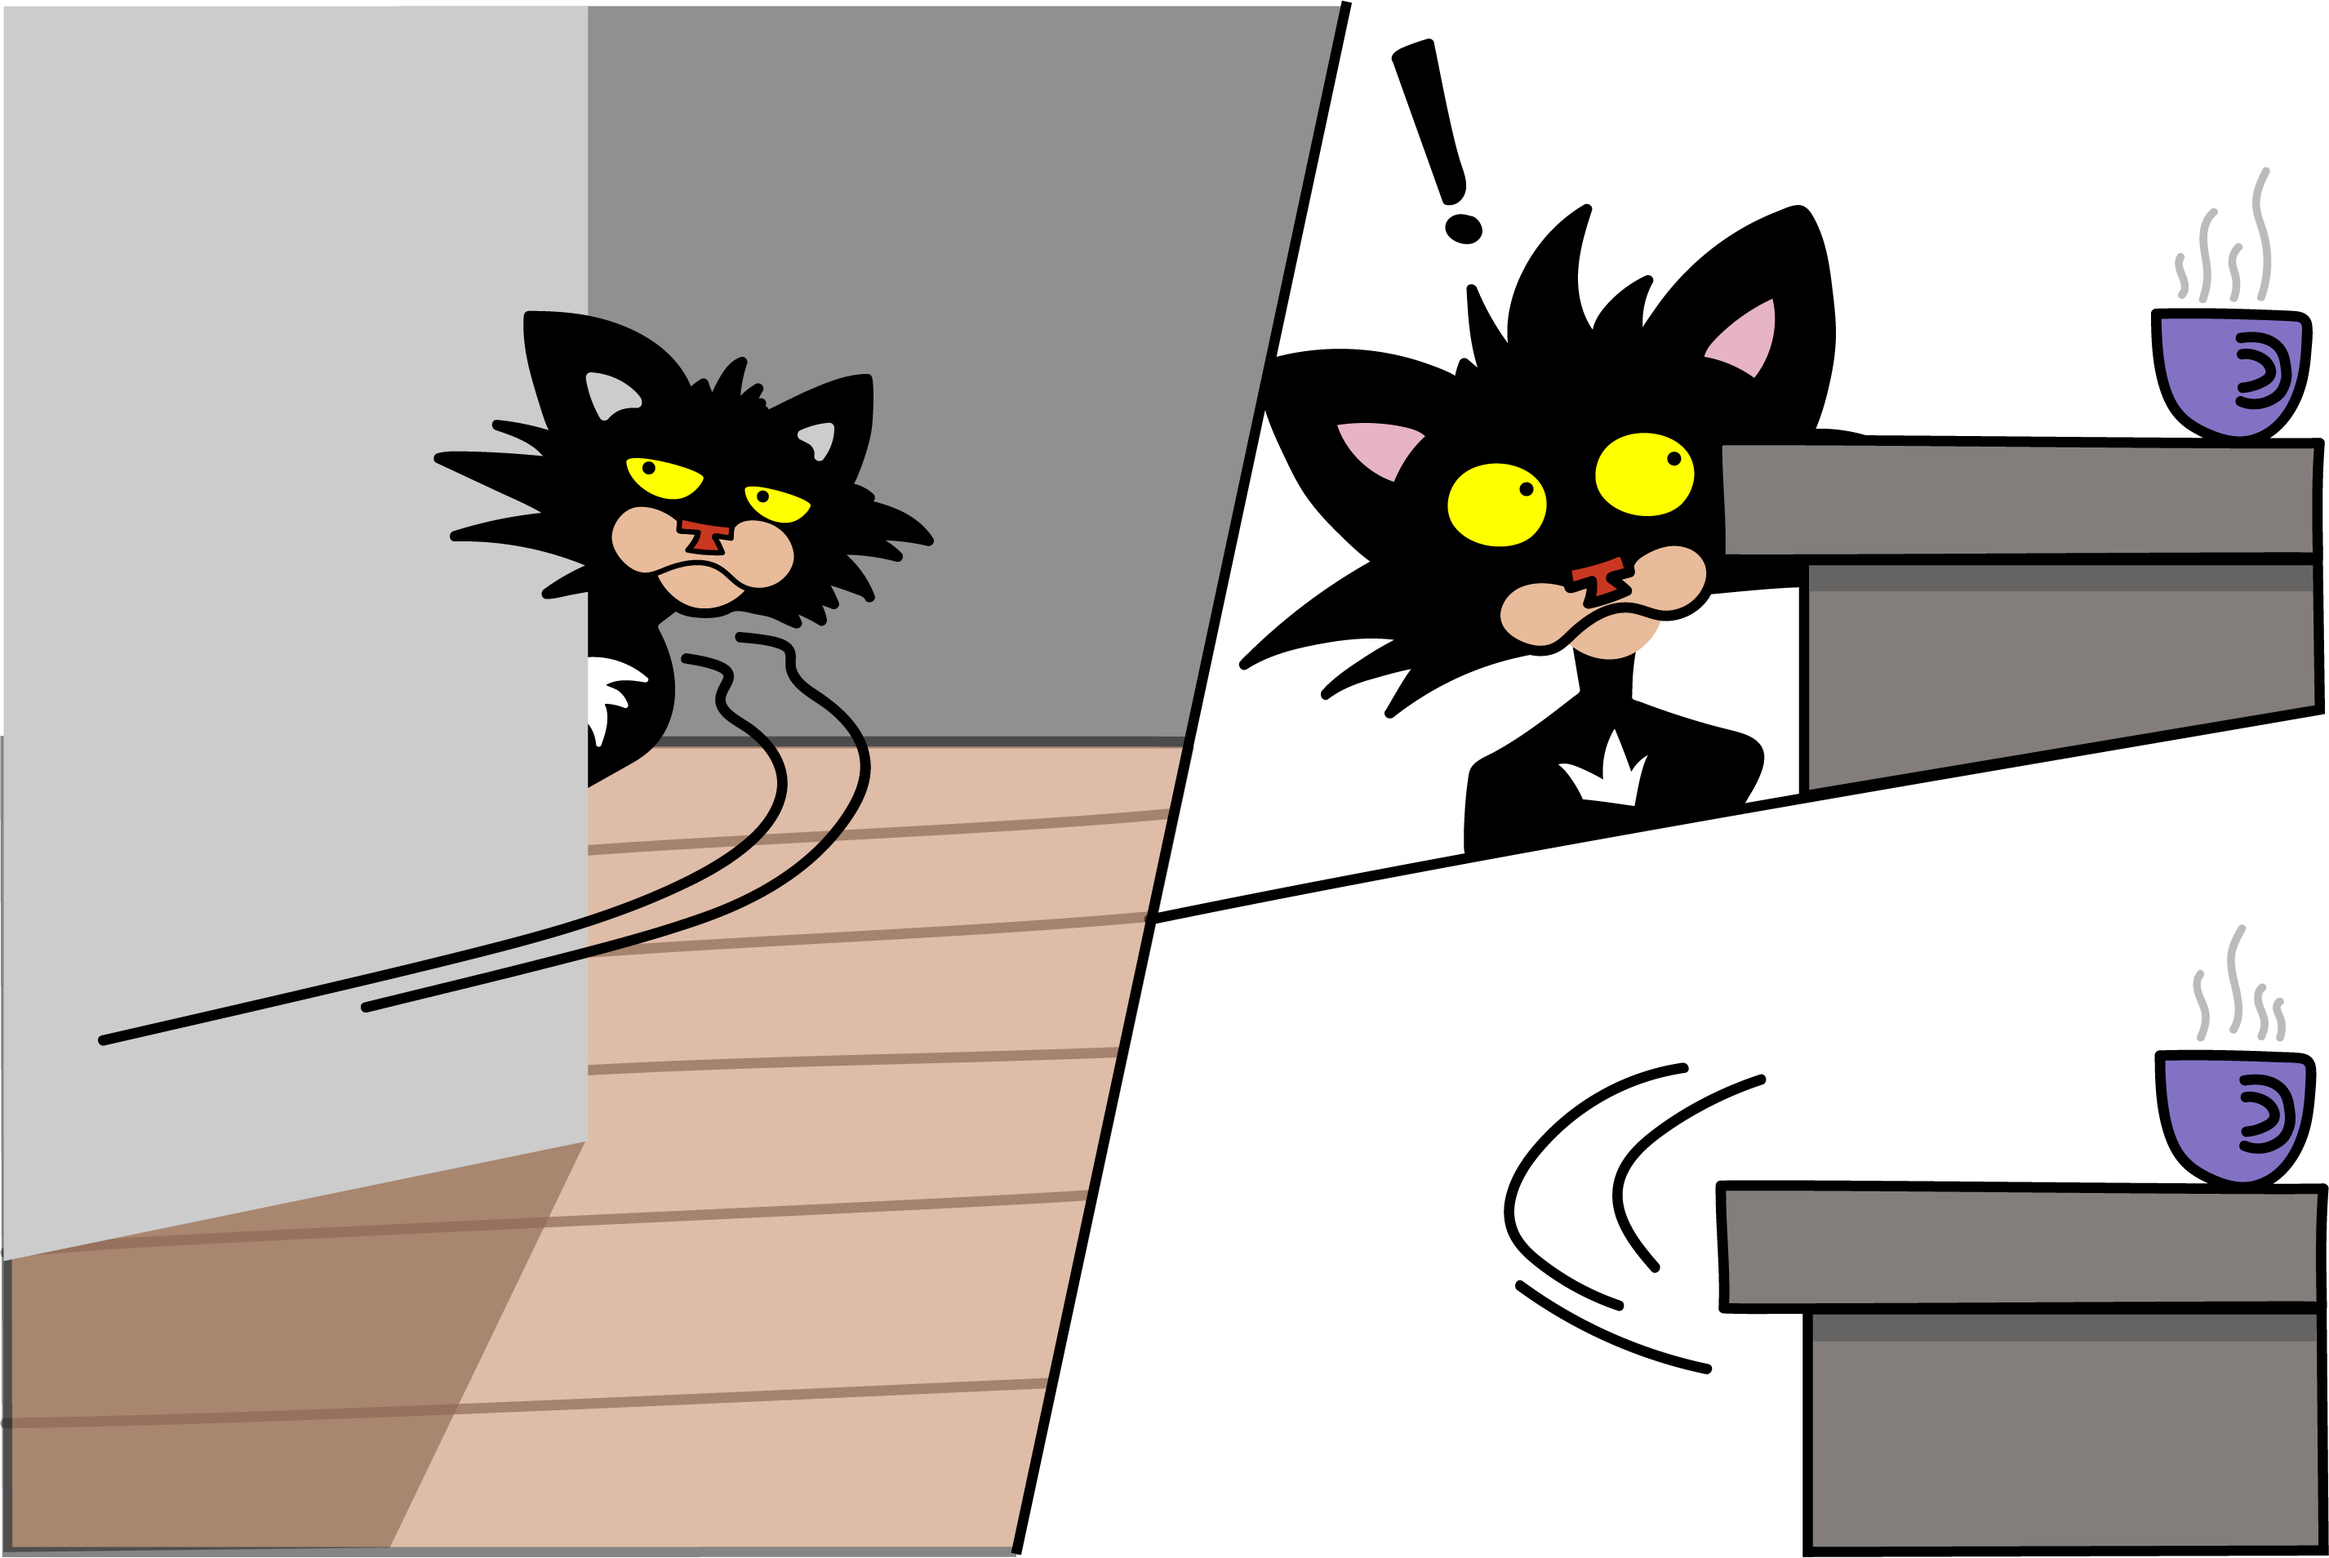
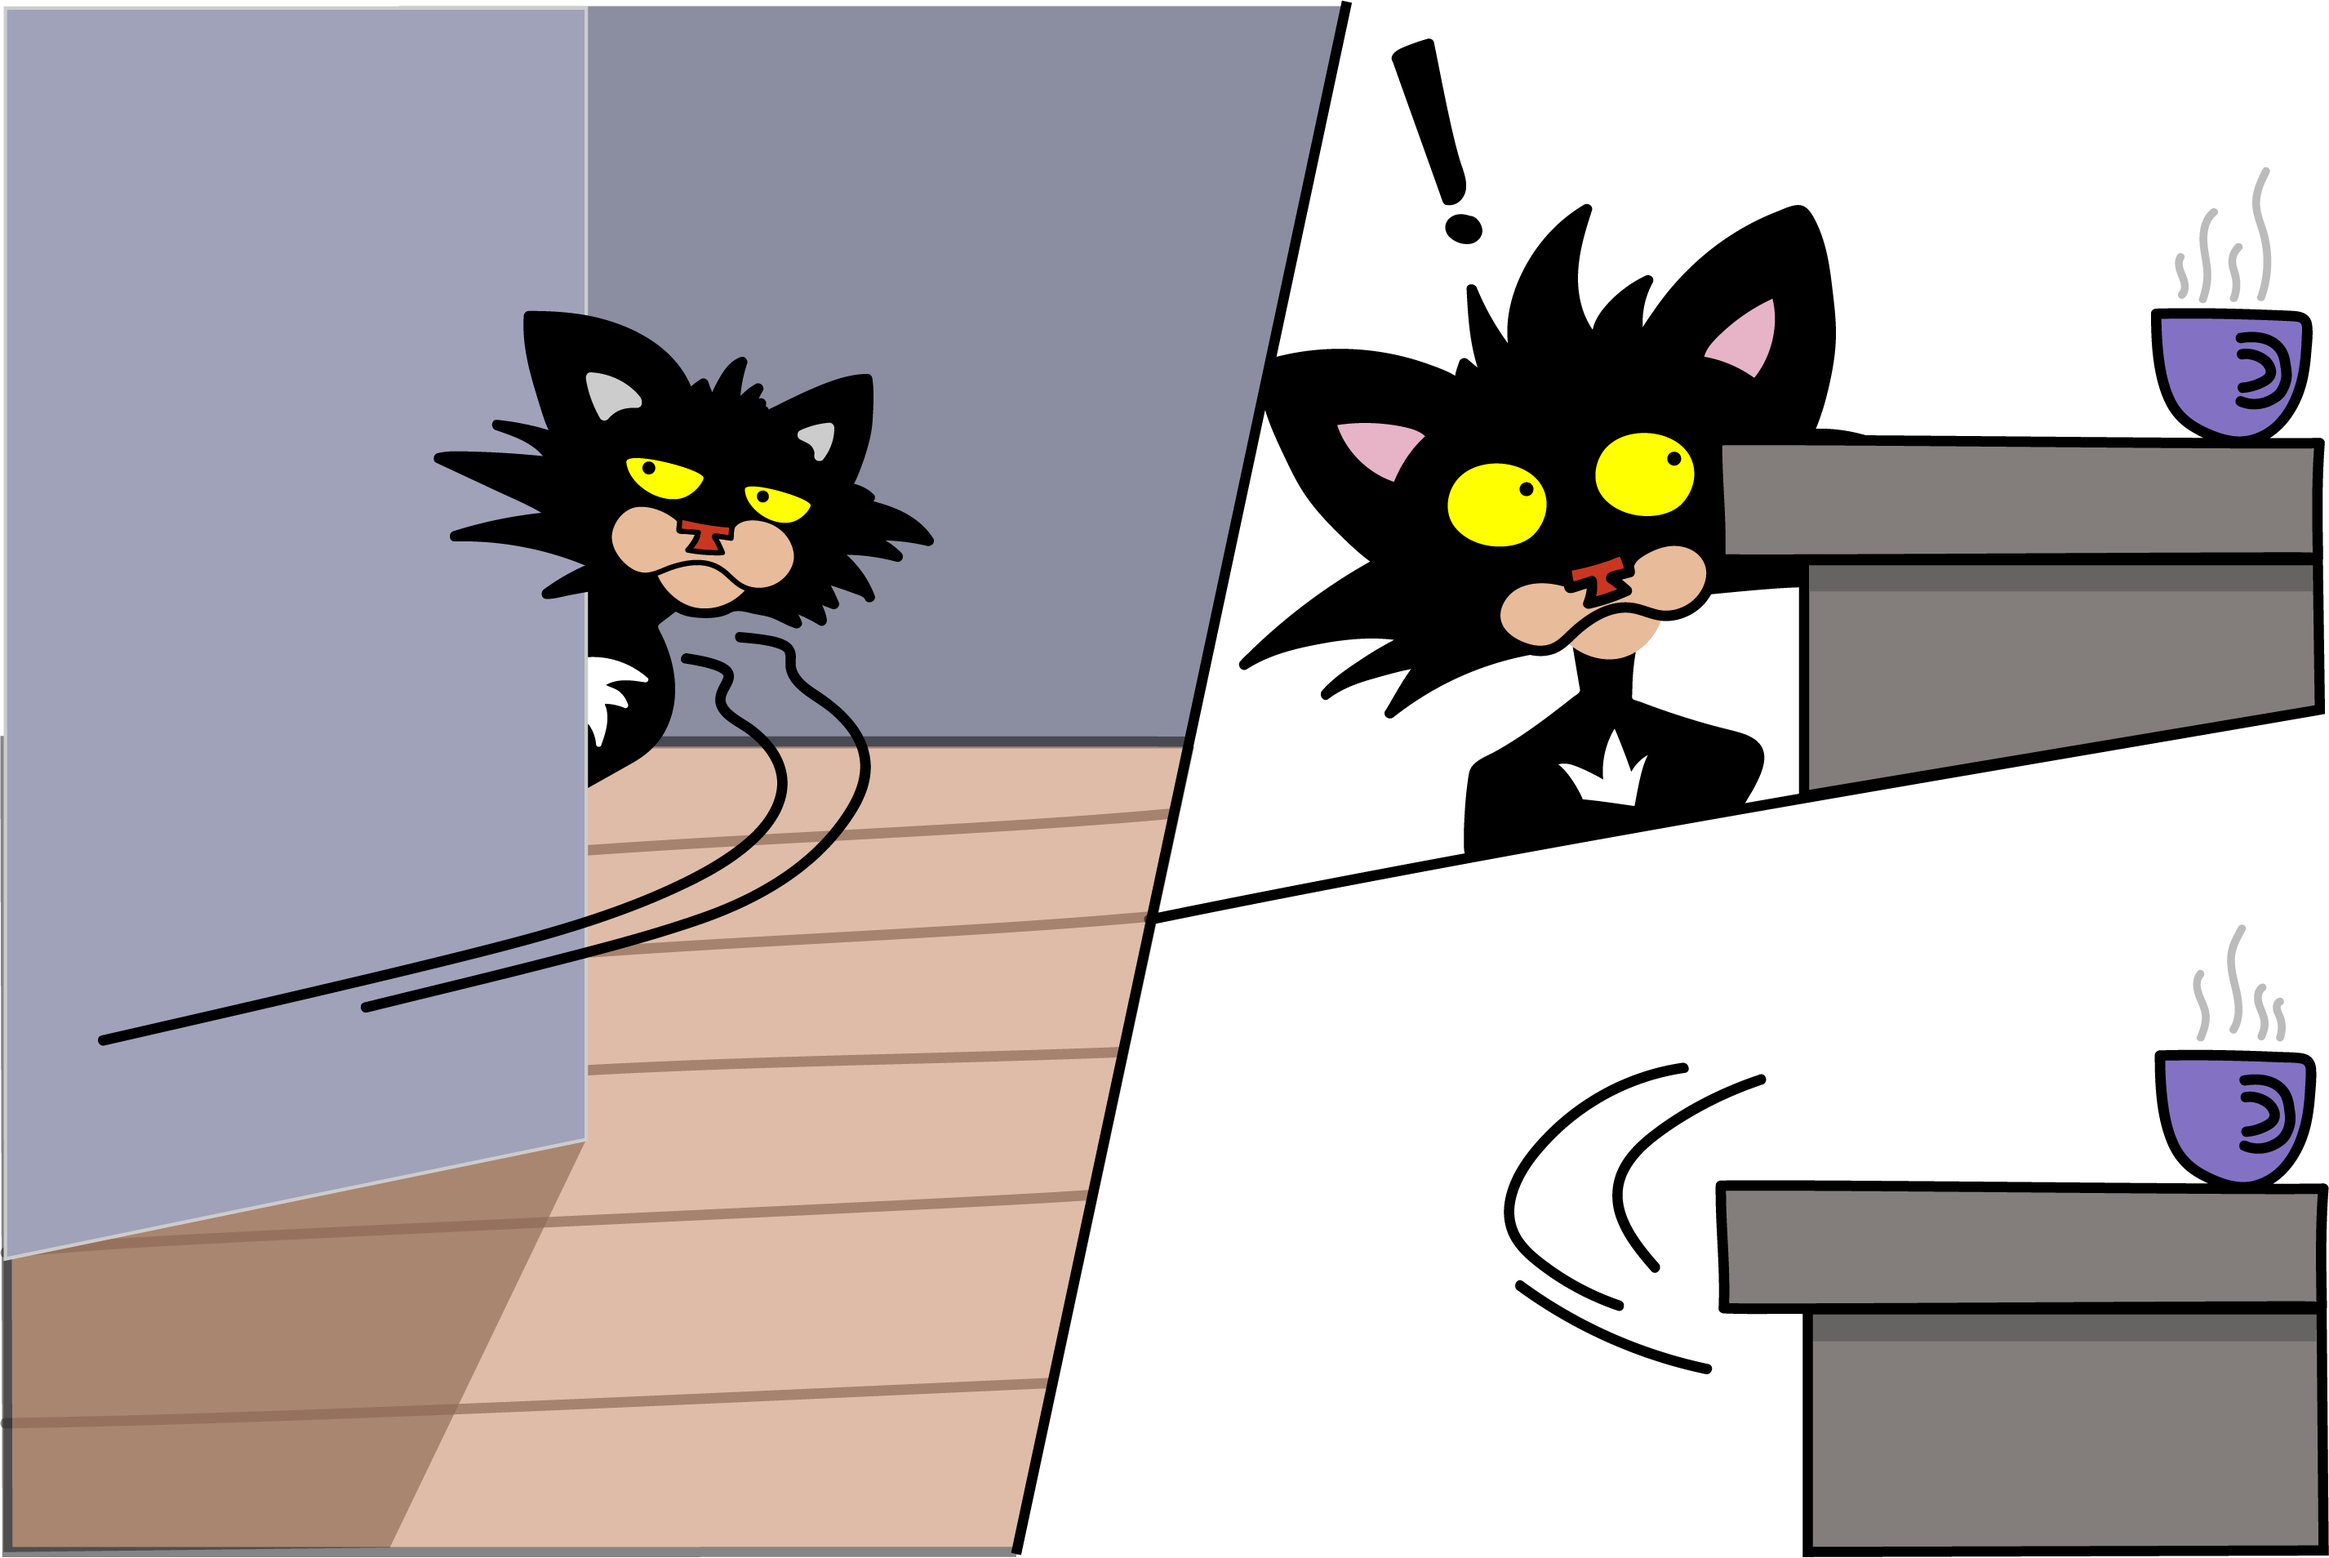
frontend edit

Changed region(s): [[0.0, 0.0, 0.2496, 0.804]]

diff --git a/game.css b/game.css
@@ -167,7 +167,7 @@ h3{
 }
 #eyes-1-kitty {
     position: relative;
-    bottom: 328px;
+    bottom: 541px;
     right: 221px;
     width:15%;
     cursor: default;
@@ -181,7 +181,7 @@ h3{
 }
 #eyes-2-kitty {
     position: relative;
-    bottom: 330px;
+    bottom: 542px;
     right: 221px;
     width:15%;
     cursor: default;
@@ -785,6 +785,15 @@ html, body {
     rotate: -12deg
 }
 
+.wall {
+
+    position: relative;
+    width: 99.5%;
+    height: 69.2%;
+    top: -374px;
+    left: 0px;
+    z-index: 0;
+}
 
 
 

diff --git a/index.html b/index.html
@@ -82,6 +82,7 @@
                 
                 <img id="kitty-1" class="body" src="/Assets/Pensive-Kitty-blank-v2.png" alt="">
                 <img id="floor" class="floor" src="/Assets/floor.png" alt="floor">
+                <img id="wall" class="wall" src="/Assets/wall.png" alt="wall">
 
 
                 <img src="/Assets/thought-bubble-panel-1.png" alt="" id="thought-bubble-1" class="speech-bubble">
